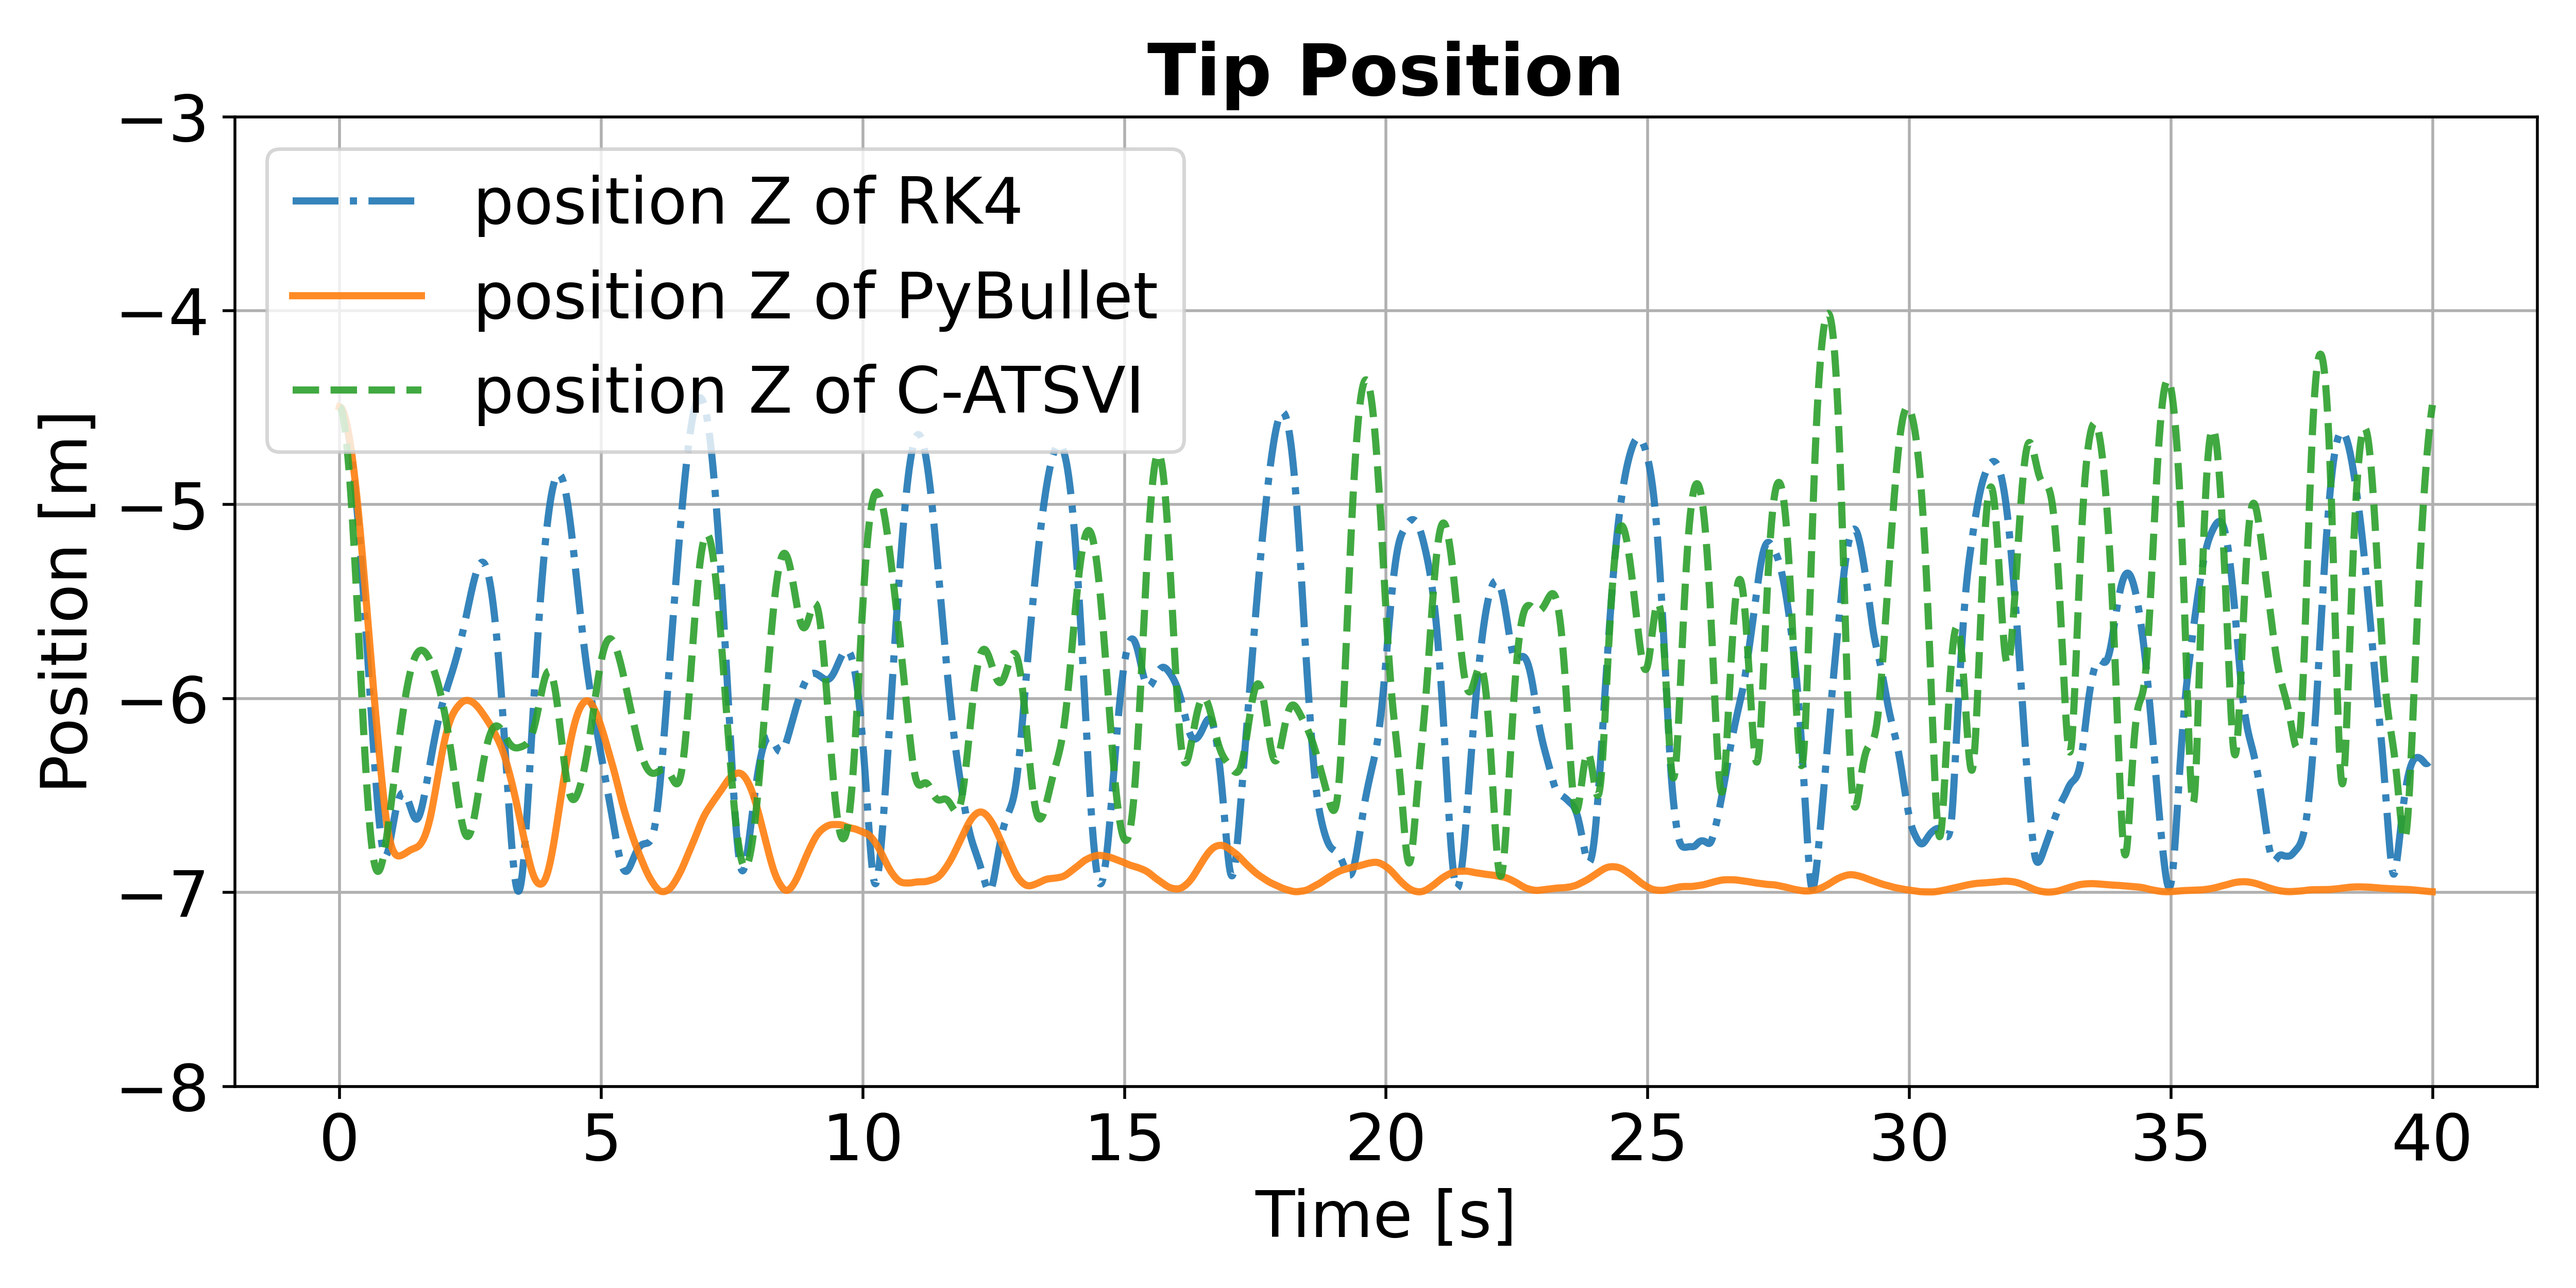
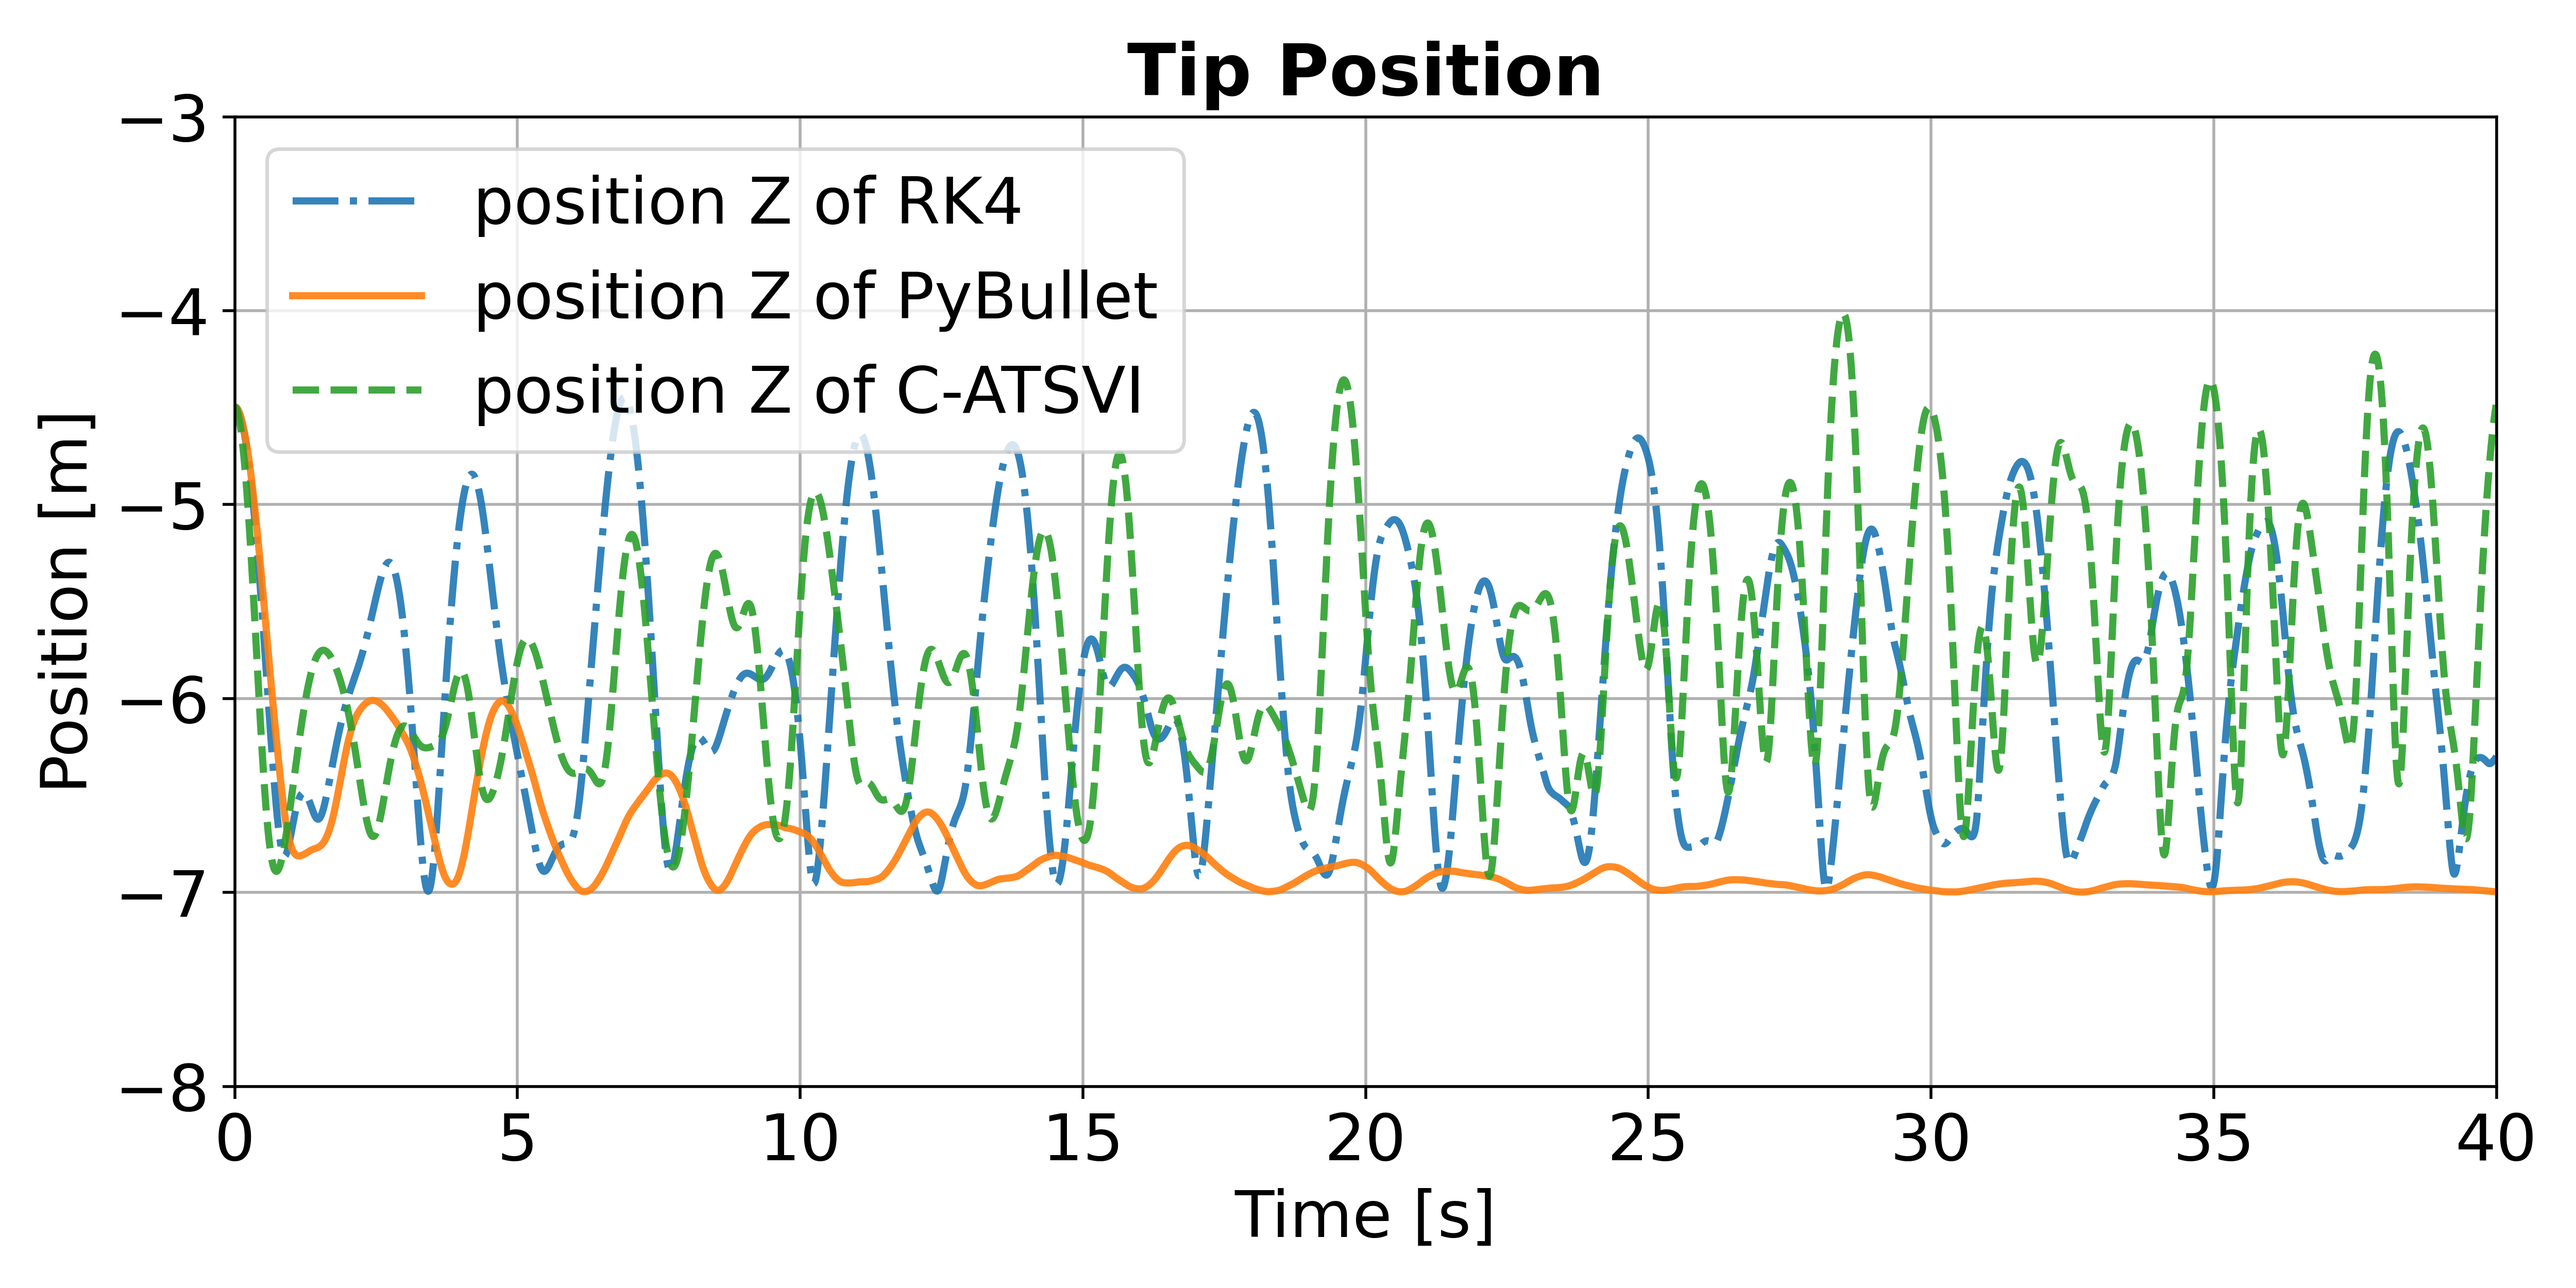
Refactor code structure for improved readability and maintainability

diff --git a/scripts/vi_compare_sim.py b/scripts/vi_compare_sim.py
@@ -824,9 +824,20 @@ def plot_results(tag, dpi_set):
         time_ctsvi = np.loadtxt(os.path.join(csv_dir_ctsvi_ad, 'time_history.csv'), delimiter=',')
         time_atsvi = np.loadtxt(os.path.join(csv_dir_atsvi_ad, 'time_history.csv'), delimiter=',')
         time_etsvi = np.loadtxt(os.path.join(csv_dir_etsvi, 'time_history.csv'), delimiter=',')
+        # 额外读取 beta=0 的 C-ATSVI（no IMP）数据，用于对比曲线
+        try:
+            beta0_dir = os.path.join(base, 'q0p2_dt0p01_T40_a0p4_b0', 'etsvi')
+            delta_energy_beta0 = np.loadtxt(os.path.join(beta0_dir, 'delta_energy_history.csv'), delimiter=',')
+            time_beta0 = np.loadtxt(os.path.join(beta0_dir, 'time_history.csv'), delimiter=',')
+            tcp_beta0 = np.loadtxt(os.path.join(beta0_dir, 'ee_history.csv'), delimiter=',')
+        except Exception:
+            delta_energy_beta0 = None
+            time_beta0 = None
+            tcp_beta0 = None
         # momentum = np.loadtxt(os.path.join(csv_dir, 'momentum_history.csv'), delimiter=',')
         step_atsvi = np.loadtxt(os.path.join(csv_dir_atsvi_ad, 'h_history.csv'), delimiter=',')
         step_etsvi = np.loadtxt(os.path.join(csv_dir_etsvi, 'h_history.csv'), delimiter=',')
+        step_beta0 = np.loadtxt(os.path.join(beta0_dir, 'h_history.csv'), delimiter=',')
     except Exception as e:
         print(f"Error reading CSV files: {e}")
         return False
@@ -881,6 +892,13 @@ def plot_results(tag, dpi_set):
     # ETSVI
     plt.plot(time_etsvi, delta_energy_etsvi, label='ΔEnergy of C-ATSVI', color=c_etsvi, linestyle='-', linewidth=2)
 
+    # # C-ATSVI (beta=0, no IMP) 对比曲线
+    # if delta_energy_beta0 is not None and time_beta0 is not None:
+    #     try:
+    #         plt.plot(time_beta0, delta_energy_beta0, label='ΔEnergy of C-ATSVI (beta=0)', color='#FF6666', linestyle='-.', linewidth=1.5)
+    #     except Exception:
+    #         pass
+
     plt.ticklabel_format(style='sci', scilimits=(0,0), axis='y', useMathText=True)
     plt.subplots_adjust(left=0.11, right=0.98, top=0.9, bottom=0.15)
     plt.xlabel('Time [s]')
@@ -888,9 +906,31 @@ def plot_results(tag, dpi_set):
     plt.title('Energy evolution')
     plt.legend(loc='upper left')
     plt.grid(True)
+    plt.xlim(0, 40)
     plt.ylim(-0.01, 0.01)
     filename = f"energy_{tag}.png"
     _save_fig(tag, filename, dpi_set if dpi_set else DEFAULT_DPI, show=False)
+
+
+    # ---------- 绘制能量曲线（imp对比） ----------
+    _init_fig()
+
+    # ETSVI
+    plt.plot(time_etsvi, delta_energy_etsvi, label='ΔEnergy of C-ATSVI', color='#D62728', linestyle='-', linewidth=2)
+
+    # ETSVI no IMP
+    plt.plot(time_beta0, delta_energy_beta0, label='ΔEnergy of C-ATSVI (no IMP)', color='#000000', linestyle='-.', linewidth=1.5)
+
+    plt.xlabel('Time [s]')
+    plt.ylabel('Energy [J]')
+    plt.title('Energy evolution')
+    plt.legend(loc='upper left')
+    plt.grid(True)
+    # plt.ylim(-0.001, 0.001)
+    filename = f"energy_no_imp_{tag}.png"
+    _save_fig(tag, filename, dpi_set if dpi_set else DEFAULT_DPI, show=False)
+
+
     #
     # # ---------- 4. 相平面图（q vs qdot） ----------
     # dt = time[1] - time[0]
@@ -915,13 +955,22 @@ def plot_results(tag, dpi_set):
     plt.plot(time_atsvi, step_atsvi, label='Time Step of ATSVI', color=c_atsvi, linestyle='-', linewidth=1.2)
     plt.plot(time_etsvi, step_etsvi, label='Time Step of C-ATSVI', color=c_etsvi, linestyle='-', linewidth=2)
 
+    # C-ATSVI (beta=0, no IMP) 对比曲线
+    # if step_beta0 is not None and time_beta0 is not None:
+    #     try:
+    #         plt.plot(time_beta0, step_beta0, label='Time Step of C-ATSVI (beta=0)', color='#FF6666', linestyle='-.', linewidth=1.5)
+    #     except Exception:
+    #         pass
+
     plt.ticklabel_format(style='sci', scilimits=(0,0), axis='y', useMathText=True)
     plt.subplots_adjust(left=0.11, right=0.98, top=0.9, bottom=0.15)
     plt.xlabel('Time [s]')
-    plt.ylabel('Step')
+    plt.ylabel('Step [s]')
     plt.title('Adaptive Time Step')
     plt.legend()
     plt.grid(True)
+    plt.xlim(0, 40)
+    plt.xlim(0, 40)
     filename = f"step_{tag}.png"
     _save_fig(tag, filename, dpi_set if dpi_set else DEFAULT_DPI, show=False)
 
@@ -939,6 +988,13 @@ def plot_results(tag, dpi_set):
     # plt.plot(time_etsvi, tcp_etsvi[:, 0], label='px_etsvi', linestyle='--', linewidth=2)
     plt.plot(time_etsvi, tcp_etsvi[:, 2], label='position Z of C-ATSVI', color=c_etsvi, linestyle='-', linewidth=2)
 
+    # C-ATSVI (beta=0, no IMP) 对比曲线
+    if tcp_beta0 is not None and time_beta0 is not None:
+        try:
+            plt.plot(time_beta0, tcp_beta0[:, 2], label='position Z of C-ATSVI (beta=0)', color='#FF6666', linestyle='-.', linewidth=1.5)
+        except Exception:
+            pass
+
     plt.ticklabel_format(style='sci', scilimits=(0,0), axis='y', useMathText=True)
     plt.subplots_adjust(left=0.11, right=0.98, top=0.9, bottom=0.15)
     plt.xlabel('Time [s]')
@@ -946,6 +1002,7 @@ def plot_results(tag, dpi_set):
     plt.title('Tip Position')
     plt.legend(loc='upper left')
     plt.grid(True)
+    plt.xlim(0, 40)
     plt.ylim(-8, -3)
     filename = f"tcp_{tag}.png"
     _save_fig(tag, filename, dpi_set if dpi_set else DEFAULT_DPI, show=False)

diff --git a/scripts/rk4_vi_compare_sim.py b/scripts/rk4_vi_compare_sim.py
@@ -389,6 +389,7 @@ def plot_results(tag, dpi_set):
     plt.title('Energy evolution')
     plt.legend(loc='upper left')
     plt.grid(True)
+    plt.xlim(0, 40)
     # plt.ylim(-0.05, 0.05)
     filename = f"energy_{tag}.png"
     _save_fig(tag, filename, dpi_set if dpi_set else DEFAULT_DPI, show=False)
@@ -422,6 +423,7 @@ def plot_results(tag, dpi_set):
     plt.title('Tip Position')
     plt.legend(loc='upper left')
     plt.grid(True)
+    plt.xlim(0, 40)
     plt.ylim(-8, -3)
     filename = f"tcp_{tag}.png"
     _save_fig(tag, filename, dpi_set if dpi_set else DEFAULT_DPI, show=False)
